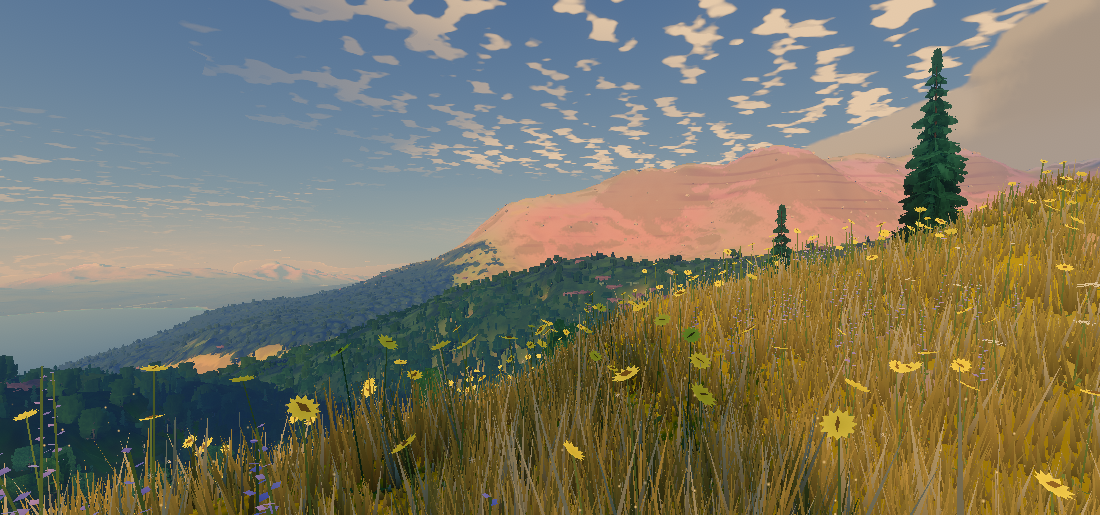
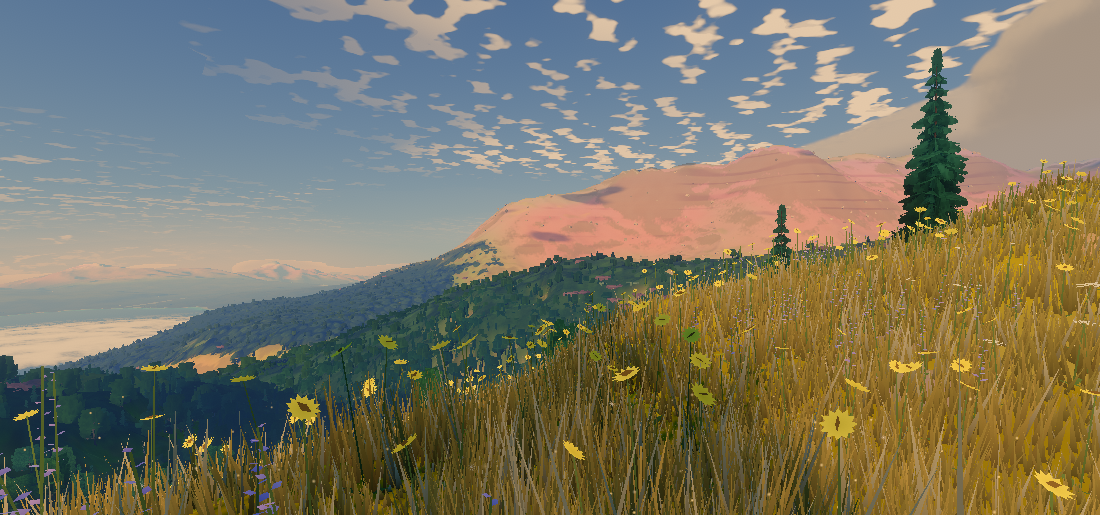
Seasons: the opening morning before and after from the ground and from 300 m, the snow from 150 km up in summer and winter; the report closed
Claude-Session: https://claude.ai/code/session_01R5Bri2SJsiHEniM3EYxxpQ

diff --git a/docs/briefs/seasons-report.md b/docs/briefs/seasons-report.md
@@ -175,8 +175,11 @@ carpet painted under it.
 - The grass lies flat under it (piece 5's uniform).
 
 **Pictures**: `haven_ledge_peak_<season>.png` and `piece4_peak_seasons.png` (a 3 700 m peak
-23 km west of the opening place, from the air at 2 800 m); `haven_ledge_space_winter.png` and
-`..._summer.png` (the southern half from 700 km).
+23 km west of the opening place, from the air at 2 800 m); `haven_ledge_high_winter.png`,
+`..._high_summer.png` and the pair with its difference, `high_summer_winter.png` (the
+southern mountains from 150 km up, no clouds: winter's snow over the whole range, summer's
+only as the thin lines of the highest crests). Pictures from 700 km were tried and thrown
+away: the globe is small in the frame and under cloud.
 
 **Known wrong.** Near by, the land's own painted snow is what it was before this work: its
 white is held inside the ground's colour range, so in shade it is a pale grey-lilac, while
@@ -254,3 +257,29 @@ nothing when the list is made again from the same anchor
 cut-outs, fewer where a tree is losing leaves; the snow on crowns is one more varying.
 The phone itself: a benchmark is the judge.
 
+
+## The opening morning, before and after (no season switch)
+
+`opening_ground_before_after.png` and `opening_300m_before_after.png`: the base this work
+began from (901d9bb) above, this branch below, their difference times four under them
+(`haven_ledge_now_before.png`, `haven_ledge_now_final.png`, `haven_ledge_300m_now_before.png`,
+`haven_ledge_300m_now_after.png`). From the ground 3.9 % of the pixels differ by more than
+8 levels, from 300 m 2.5 %.
+
+What differs, by intent of the seasons:
+- trees: the leafless aspens beyond 60 m are thin now as they are near by, and the trees'
+  whole pictures take the day's colour (specks over the woods in the 300 m difference);
+- the petals lying under the flowering cherries, laid all at once in a picture.
+
+What differs and is not the seasons' (the after build also holds the base's later work,
+merged on the way; the before build does not):
+- the white sheet over the sea on the left (a fifth of the lower left of both pictures) is
+  the sky's morning mist seen from the shore;
+- two soft dark lens shapes on the pink mountain. They have a cloud shadow's soft edge, not
+  the painted snow's; the season test holds the snow's numbers on this day to the land's
+  own. I have not taken the picture that would prove whose they are (the same view with
+  `debug=noclouds`): say if it is wanted.
+- single pixels in the grass and flowers (the wind's phase and the speed helper's grass
+  blocks).
+
+Nothing else moved: the land's colours, the grass's gold, the firs, the sky.
